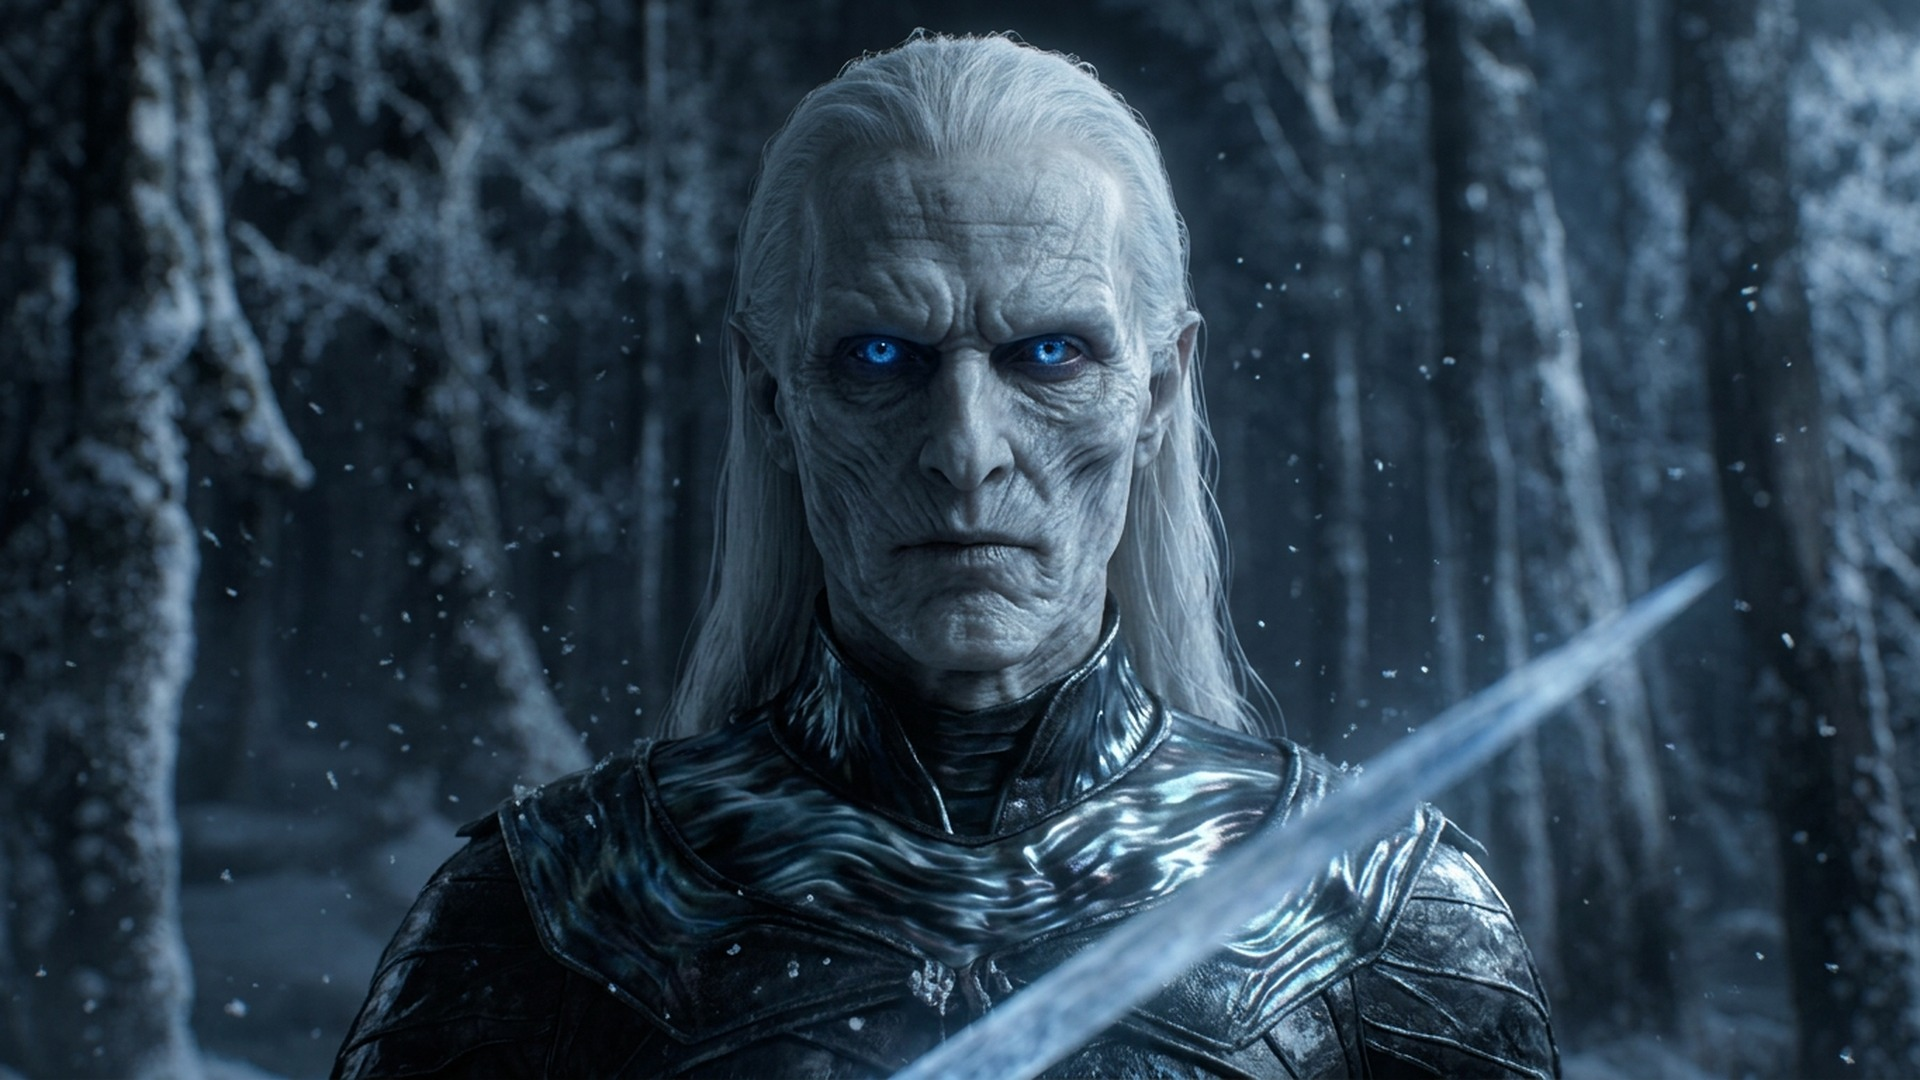
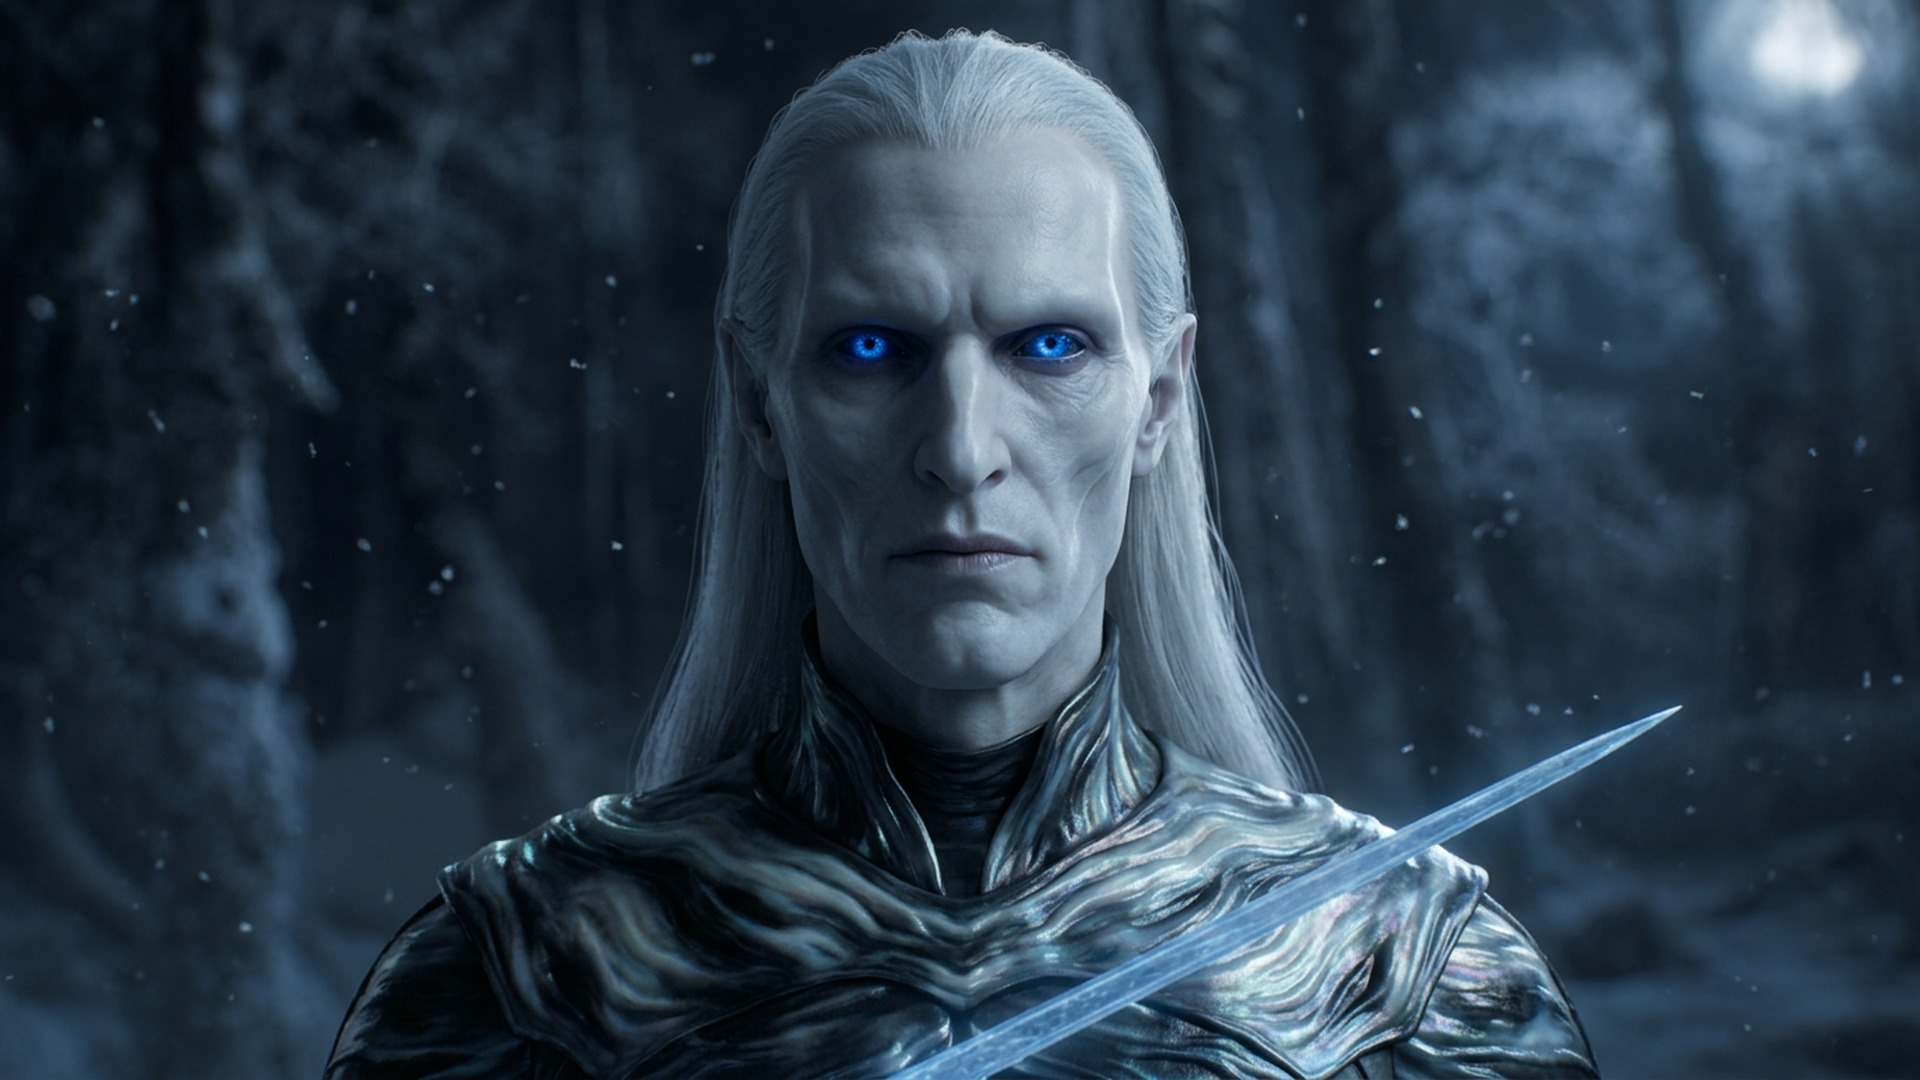
GOT001: S120 redo, S127-S134 (9 PASS, S126 FIX); tracker v2.42

diff --git a/projects/dune_archives/00_master/MASTER_INDEX_AND_TRACKER.md b/projects/dune_archives/00_master/MASTER_INDEX_AND_TRACKER.md
@@ -86,7 +86,7 @@ Folders 10, 11, 12, 19, 21, 22, 23 and 24 are empty on purpose. They fill once p
 |---|---|---|---|---|---|---|---|---|---|---|---|---|
 | DUN003 | Dune Messiah Explained Before Part Three | STANDARD | APPROVED (topic + 15 min + 150 imgs, 2026-11-23) | ☑ | ☑ 15 min | ☑ 150 imgs / 15 batches | v1.0 APPROVED | v1 (178 shots) | B001 ✅ · B002 ✅ · B003 ✅ · B004 ✅ · B005 ✅ · B006 ✅ · B007 4/10 (+Duncan pending, 1 fix) · B008 3/10 | — | — | — |
 | DUN001 | The Butlerian Jihad: The War Against the Thinking Machines | EPIC | **MASTER v1 ON DRIVE** 22_edit `1PpbtA6EKYWP-Inc31NuFSd0R0Y4immpj` (492.8 MB, 11:54, 1080p24, ≈−14.7 LUFS / −0.9 dBTP) — awaiting director review | ☑ | ☑ 11:54 | ☑ 150 imgs / 15 batches | v1.0 APPROVED · rev 1.1 (VI softened, approved) | data/dun001.py (168 cuts, 42 gfx incl. chapter cards) | B001–B015 ✅ **150/150 QC PASS** (anchors: Erasmus, Serena, Vorian, Xavier, Iblis, Agamemnon, Abulurd) | VO ✅ 13/13 · aligned 100% · maps A/B/C ✅ · mix ✅ −14 LUFS/−1 dBTP | — | — |
-| GOT001 | The Night King: Who Was He Really? | EPIC | IN PRODUCTION (script approved; VO 12/12; aligned 100%; timeline 10:35; stills 124/150) | ☑ | ☑ VO 598.7 s, 12/12 sections → programme ≈10:40 (runtime option A) | ☐ 150 imgs (124 PASS: B001–B011 110/110, B012 9/10, B013 5/10; S120 FIX) | v1.0 APPROVED | — | — | — | — | — |
+| GOT001 | The Night King: Who Was He Really? | EPIC | IN PRODUCTION (script approved; VO 12/12; aligned 100%; timeline 10:35; stills 133/150) | ☑ | ☑ VO 598.7 s, 12/12 sections → programme ≈10:40 (runtime option A) | ☐ 150 imgs (133 PASS: B001–B012 120/120, B013 9/10, B014 4/10; S126 FIX) | v1.0 APPROVED | — | — | — | — | — |
 
 ## E. Data counts (from `00_master/build_summary.json`)
 
@@ -718,5 +718,6 @@ Index/QC v21 Doc: `1Xd5uubuVr8HSOOF7w4-m3S2es9A0PhxvI7hFvTYLZpw`. S012/S016 turn
 | v2.39 | 2026-11-25 | GOT001 S098–S107 all PASS (the Nightfort in moonlit mist, a TV-lit living room, the silhouetted rider with the bundle, the ice-spire altar, the glowing bundle with no face, a candle snuffed out, the Hardhome raising as a silhouette, the dead dragon over the frozen lake, a spiral of stones around a weirwood, the children's ritual with no blood). Stills 107/150 |
 | v2.40 | 2026-11-25 | GOT001 S108–S117: 8 PASS (the first Walker's eyes, the godswood leap and the army shattering as silhouettes, a closed book in snow, a writer's study with no person in it, the legend tapestry, a cairn at dusk, the Night's King fading into fog). FIX: S114 Lann (drifts toward an actor-like look), S116 Casterly Rock (literal sculpted lion). S111 file renamed to BATCH012. Stills 115/150 |
 | v2.41 | 2026-11-25 | GOT001 S114 + S116 redos PASS; S118, S119, S121–S125 PASS (raven and scroll, the Others' leaderless ring, the Land of Always Winter, the children's root cave, Daenerys's three eggs, Coldhands leading the party, his black hands). S120 FIX (the Other's face drifted toward the show's wrinkled White Walker). Stills 124/150 |
+| v2.42 | 2026-11-25 | GOT001 S120 redo PASS (smooth book Other); S127–S134 PASS (the Wall's inner light, Leaf, Coldhands' scarf and eyes, the ghost ranger among weirwoods, the rider against the moon, wildlings digging into a glacier, the opened cairns, book Ygritte on the Wall). S126 FIX (painterly artefacts). Stills 133/150 |
 
 > Turn 22 note: the old manifests v11, continuity v1.4 and original tracker Doc have their Drive descriptions set to SUPERSEDED, pointing at the new IDs above. The Drive tracker v2.12 Doc is a snapshot taken before its own ID was added here.
